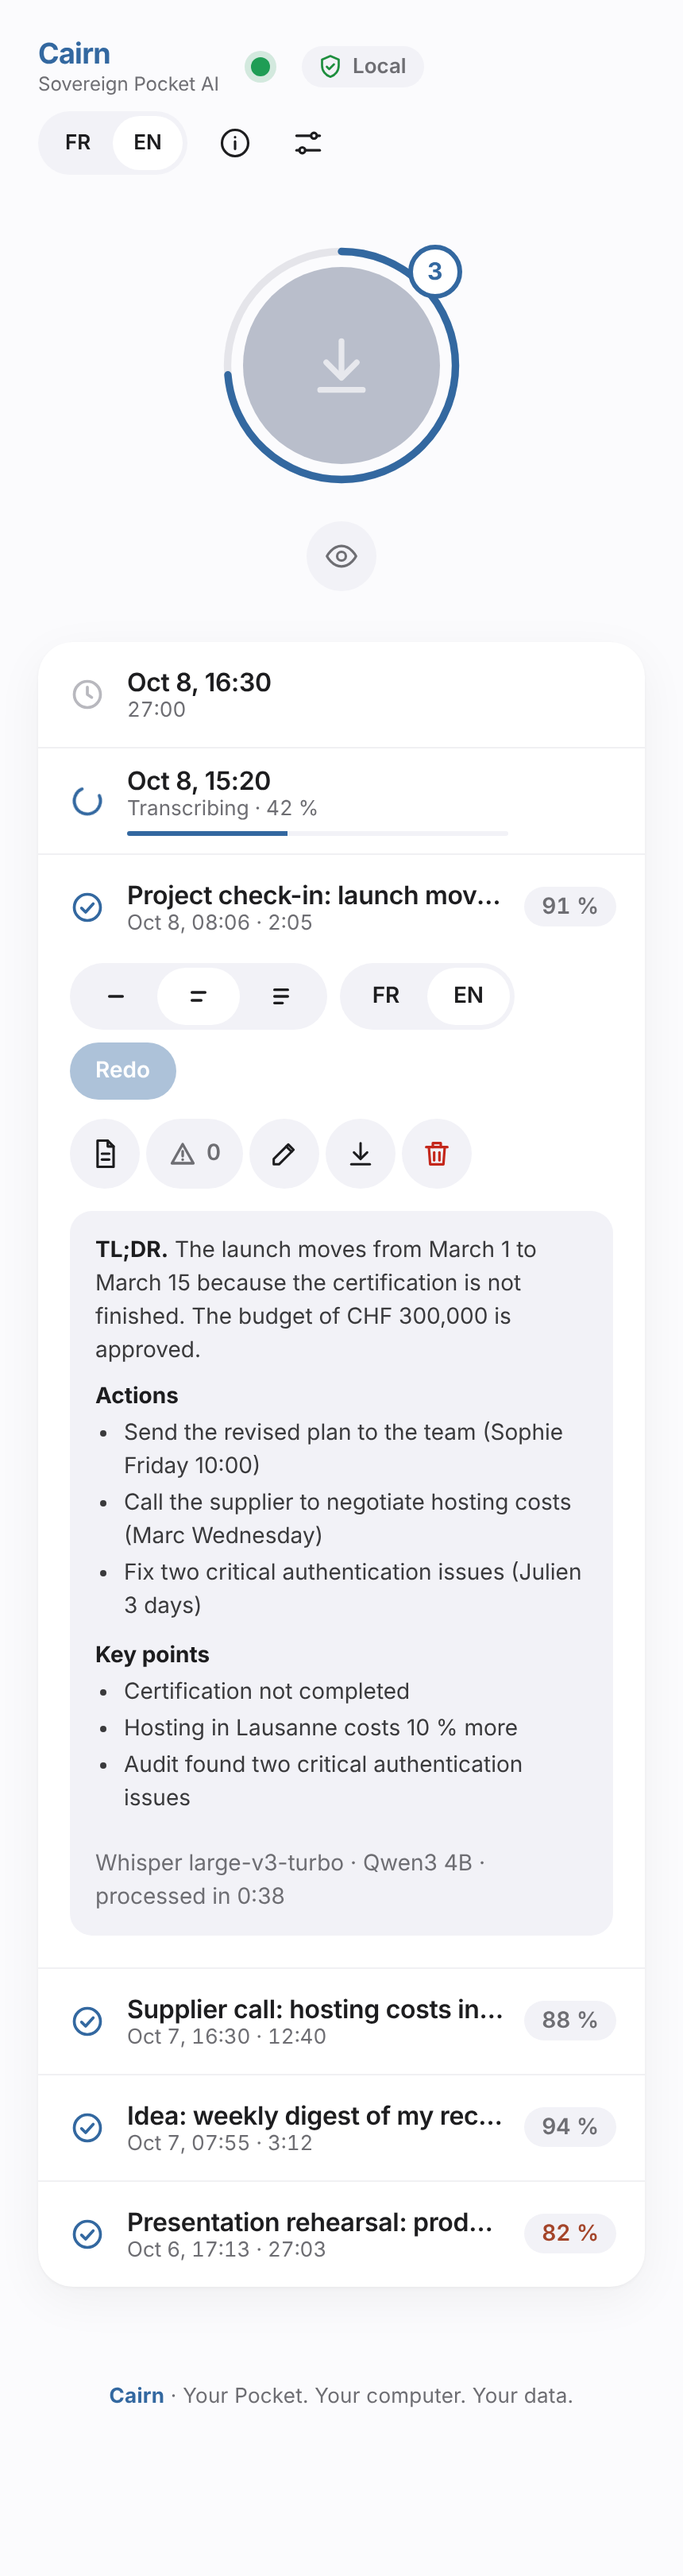
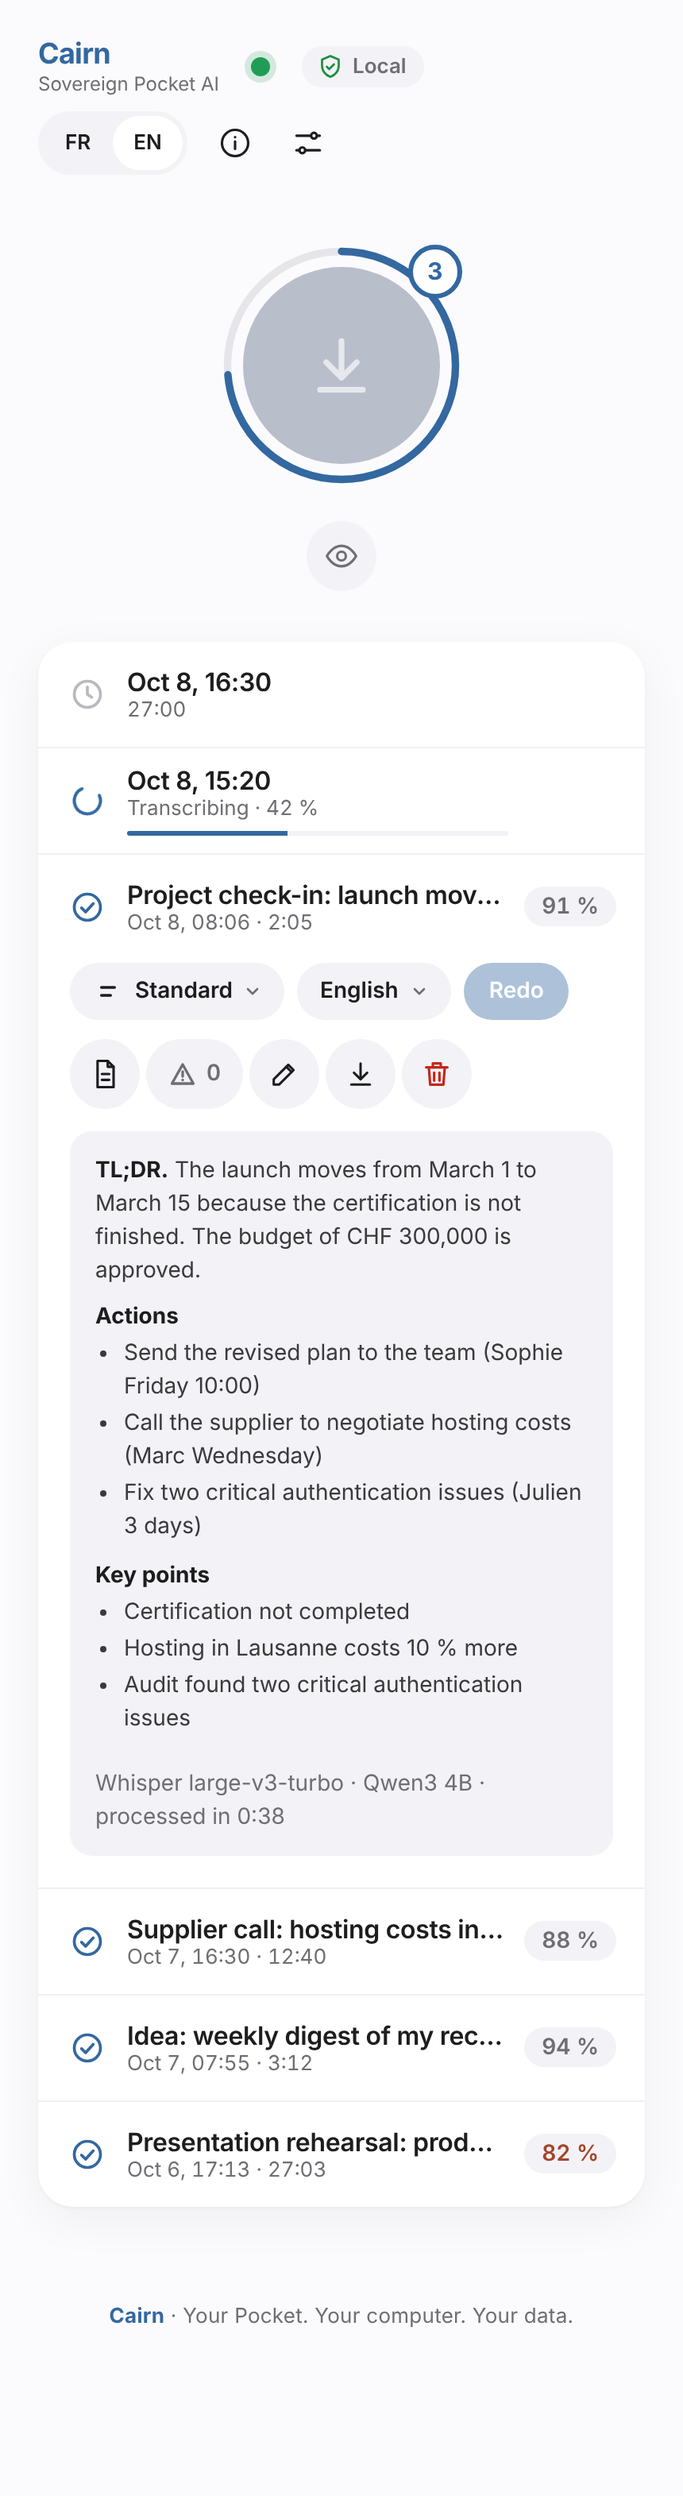
Level and language as drop-down lists
Claude-Session: https://claude.ai/code/session_011cjUvj5utwUPtNVyi6uca5

diff --git a/cairn/web/app.js b/cairn/web/app.js
@@ -14,7 +14,7 @@
       tagline: "Votre Pocket. Votre ordinateur. Vos données.", mUse: "Utiliser", mRemove: "Supprimer ce modèle", mRemoveConfirm: "Supprimer {name} de cet ordinateur ? Vous pourrez le télécharger à nouveau.", mInUse: "Utilisé", mInstall: "Installer", mTier: { light: "Léger", standard: "Standard", high: "Élevé" },
       mRam: "{n} Go de mémoire conseillés", mConfirm: "Télécharger {name} ({size}) ? Une connexion internet est utilisée pour ce seul téléchargement.",
       mDownloading: "Téléchargement {pct} %", mFailed: "Échec du téléchargement : ", mDone: "Modèle installé", mDown: "Moteur local arrêté", mBusy: "Un traitement est en cours",
-      settings: "Réglages", langHint: "Langue de la note",
+      settings: "Réglages", langHint: "Langue de la note", levelHint: "Niveau de détail",
       short: "Court", mid: "Normal", full: "Complet",
       shortHint: "Court : TL;DR et actions", midHint: "Normal : + contexte et points clés", fullHint: "Complet : + détail par sujet",
       emptyPocket: "Vider le Pocket", emptyHint: "Vider le Pocket (copies vérifiées)",
@@ -52,7 +52,7 @@
       tagline: "Your Pocket. Your computer. Your data.", mUse: "Use", mRemove: "Remove this model", mRemoveConfirm: "Remove {name} from this computer? You can download it again later.", mInUse: "In use", mInstall: "Install", mTier: { light: "Light", standard: "Standard", high: "High" },
       mRam: "{n} GB of memory advised", mConfirm: "Download {name} ({size})? An internet connection is used for this download only.",
       mDownloading: "Downloading {pct}%", mFailed: "Download failed: ", mDone: "Model installed", mDown: "Local engine stopped", mBusy: "A job is running",
-      settings: "Settings", langHint: "Note language",
+      settings: "Settings", langHint: "Note language", levelHint: "Level of detail",
       short: "Short", mid: "Standard", full: "Detailed",
       shortHint: "Short: TL;DR and actions", midHint: "Standard: + context, key points", fullHint: "Detailed: + detail per topic",
       emptyPocket: "Empty the Pocket", emptyHint: "Empty the Pocket (copies verified)",
@@ -83,6 +83,7 @@
   var I = {
     info: '<svg width="22" height="22" viewBox="0 0 24 24" fill="none" stroke="#1D1D1F" stroke-width="1.7" stroke-linecap="round" stroke-linejoin="round" aria-hidden="true"><circle cx="12" cy="12" r="9"></circle><path d="M12 11v5"></path><path d="M12 8h.01"></path></svg>',
     gear: '<svg width="22" height="22" viewBox="0 0 24 24" fill="none" stroke="#1D1D1F" stroke-width="1.7" stroke-linecap="round" stroke-linejoin="round" aria-hidden="true"><path d="M4 7h10"></path><path d="M18 7h2"></path><circle cx="16" cy="7" r="2"></circle><path d="M4 17h2"></path><path d="M10 17h10"></path><circle cx="8" cy="17" r="2"></circle></svg>',
+    chev: '<svg width="12" height="12" viewBox="0 0 24 24" fill="none" stroke="#6E6E73" stroke-width="2.6" stroke-linecap="round" stroke-linejoin="round" aria-hidden="true"><path d="M6 9l6 6 6-6"></path></svg>',
     doc: '<svg width="22" height="22" viewBox="0 0 24 24" fill="none" stroke="#6E6E73" stroke-width="1.7" stroke-linecap="round" stroke-linejoin="round" aria-hidden="true"><path d="M7 3h7l4 4v14H7z"></path><path d="M14 3v4h4"></path><path d="M10 12h5"></path><path d="M10 16h5"></path></svg>',
     folder: '<svg width="22" height="22" viewBox="0 0 24 24" fill="none" stroke="#6E6E73" stroke-width="1.7" stroke-linecap="round" stroke-linejoin="round" aria-hidden="true"><path d="M3 7a2 2 0 0 1 2-2h4l2 2h8a2 2 0 0 1 2 2v8a2 2 0 0 1-2 2H5a2 2 0 0 1-2-2z"></path></svg>',
     mic: '<svg width="22" height="22" viewBox="0 0 24 24" fill="none" stroke="#6E6E73" stroke-width="1.7" stroke-linecap="round" stroke-linejoin="round" aria-hidden="true"><rect x="9" y="3" width="6" height="11" rx="3"></rect><path d="M5 11a7 7 0 0 0 14 0"></path><path d="M12 18v3"></path></svg>',
@@ -116,7 +117,7 @@
 
   var S = {
     ui: null, hidden: true, settingsOpen: false, aboutOpen: false, open: null, edit: null, draft: "", exp: null,
-    delConfirm: false, emptyConfirm: false, verify: null, rr: "mid", server: null, full: {}, about: null, upd: null,
+    delConfirm: false, emptyConfirm: false, verify: null, rr: "mid", rl: "en", menu: null, server: null, full: {}, about: null, upd: null,
     folderEdit: false, folderDraft: "", wasRunning: false
   };
   var lastView = "";
@@ -132,7 +133,22 @@
   function findNote(id) { return S.server && S.server.notes ? S.server.notes.filter(function (x) { return x.id === id; })[0] : null; }
   function noteLevel(id) { var n = findNote(id); return (n && n.level) || "mid"; }
   function noteLang(id) { var n = findNote(id); return (n && n.lang) || ui(); }
-  function optionBar(t) { return seg3("rr", S.rr, "s36", t) + segLang("rl", S.rl, "s36", t, t.langHint); }
+  function lvlIcon(k) { return '<svg width="20" height="20" viewBox="0 0 24 24" fill="none" stroke="#1D1D1F" stroke-width="2" stroke-linecap="round" aria-hidden="true">' + I.lvl[k] + "</svg>"; }
+  var LANG_NAME = { fr: "Français", en: "English" };
+  function menuBtn(key, icon, label, hint) {
+    return '<button type="button" class="mbtn menu' + (S.menu === key ? " open" : "") + '" data-a="menu" data-v="' + key + '"' + tip(hint) + ">" + icon + "<span>" + esc(label) + "</span>" + I.chev + "</button>";
+  }
+  function optionBar(t) {
+    return menuBtn("lvl", lvlIcon(S.rr), t[S.rr], t.levelHint) + menuBtn("lang", "", LANG_NAME[S.rl] || S.rl, t.langHint);
+  }
+  function optionList(t) {
+    if (!S.menu) { return ""; }
+    var isLevel = S.menu === "lvl", items = isLevel ? ["short", "mid", "full"] : ["fr", "en"], cur = isLevel ? S.rr : S.rl;
+    return '<div class="opts">' + items.map(function (k) {
+      return '<button type="button" class="opt' + (k === cur ? " on" : "") + '" data-a="' + (isLevel ? "rr" : "rl") + '" data-v="' + k + '"' + (isLevel ? tip(t[k + "Hint"]) : "") + ">" +
+        (isLevel ? lvlIcon(k) : "") + "<span>" + esc(isLevel ? t[k] : LANG_NAME[k]) + "</span></button>";
+    }).join("") + "</div>";
+  }
 
   function api(method, path, body) {
     var opt = { method: method, headers: {} };
@@ -173,11 +189,6 @@
   function bg(on) { return on ? " on" : ""; }
   function tip(text) { return text ? ' data-tip="' + esc(text) + '" aria-label="' + esc(text) + '"' : ""; }
 
-  function seg3(prefix, current, size, t) {
-    return '<div class="seg ' + size + '">' + ["short", "mid", "full"].map(function (k) {
-      return '<button type="button" class="' + (current === k ? "on" : "") + '" data-a="' + prefix + '" data-v="' + k + '"' + tip(t[k + "Hint"]) + '><svg width="20" height="20" viewBox="0 0 24 24" fill="none" stroke="#1D1D1F" stroke-width="2" stroke-linecap="round" aria-hidden="true">' + I.lvl[k] + "</svg></button>";
-    }).join("") + "</div>";
-  }
   function segLang(prefix, current, size, t, hint) {
     return '<div class="seg ' + size + '">' + ["fr", "en"].map(function (k) {
       return '<button type="button" class="' + (current === k ? "on" : "") + '" data-a="' + prefix + '" data-v="' + k + '"' + tip(hint) + ">" + k.toUpperCase() + "</button>";
@@ -302,12 +313,12 @@
     var passInk = n.quality != null && n.quality < 85 ? "var(--warn)" : "var(--mute)";
     h += '<div class="bar"><div class="row gap8" style="flex-wrap:wrap">' + optionBar(t) +
       '<button type="button" class="mbtn blue" data-a="rerun"' + (S.server && S.server.job && S.server.job.running ? " disabled" : "") + tip(t.redoHint) + ">" + esc(t.redo) + "</button></div>";
-    h += '<div class="row" style="gap:4px">';
+    h += '<div class="row" style="gap:4px;order:2">';
     h += '<button type="button" class="ib" data-a="viewText" data-id="' + esc(n.id) + '"' + tip(t.viewText) + ">" + I.doc.replace("#6E6E73", "#1D1D1F") + "</button>";
     h += '<button type="button" class="warn" data-a="copyDoubtful" style="color:' + passInk + '"' + tip(n.passages + t.passages + " · " + t.copilotHint) + ">" + (passInk === "var(--orange)" ? I.warnB.replace('width="16" height="16"', 'width="18" height="18"') : I.warnB.replace("#C86D51", "#6E6E73").replace('width="16" height="16"', 'width="18" height="18"')) + (n.passages || 0) + "</button>";
     h += '<button type="button" class="ib" data-a="startRename"' + tip(t.rename) + ">" + I.pencil + "</button>";
     h += '<button type="button" class="ib" data-a="toggleExport"' + tip(t.exportHint) + ">" + I.down + "</button>";
-    h += '<button type="button" class="ib" data-a="askDelete"' + tip(t.deleteHint) + ">" + I.trash + "</button></div></div>";
+    h += '<button type="button" class="ib" data-a="askDelete"' + tip(t.deleteHint) + ">" + I.trash + "</button></div>" + optionList(t) + "</div>";
     if (S.exp === n.id) {
       h += '<div class="exp"><button type="button" class="main" data-a="expCopy"' + tip(t.copyRichHint) + ">" + I.copy + '</button><button type="button" data-a="expMd"' + tip(t.expMdHint) + '>MD</button><button type="button" data-a="expHtml"' + tip(t.expHtmlHint) + ">HTML</button></div>";
     }
@@ -347,7 +358,7 @@
         ? '<button type="button" class="mbtn" data-a="restoreOne" data-id="' + esc(n.id) + '">' + esc(t.putBack) + "</button>"
         : '<button type="button" class="mbtn" data-a="skipOne" data-id="' + esc(n.id) + '">' + esc(t.skipIt) + "</button>";
     }
-    return h + "</div></div>";
+    return h + "</div>" + optionList(t) + "</div>";
   }
 
   function viewList(t, st) {
@@ -530,14 +541,15 @@
     import: function () {
       api("POST", "/api/import").then(refresh).catch(function (e) { flash(T().error + e.message); });
     },
-    row: function (v, id) { S.open = S.open === id ? null : id; S.delConfirm = false; S.edit = null; S.exp = null; S.rr = noteLevel(id); S.rl = noteLang(id); if (S.open) { loadFull(id); } },
+    row: function (v, id) { S.open = S.open === id ? null : id; S.delConfirm = false; S.edit = null; S.exp = null; S.menu = null; S.rr = noteLevel(id); S.rl = noteLang(id); if (S.open) { loadFull(id); } },
+    menu: function (v) { S.menu = S.menu === v ? null : v; },
     rr: function (v) {
-      S.rr = v;
+      S.rr = v; S.menu = null;
       var id = S.open, n = findNote(id);
       if (n && n.status !== "done") { api("POST", "/api/note/" + encodeURIComponent(id) + "/options", { level: v }).then(refresh); }
     },
     rl: function (v) {
-      S.rl = v;
+      S.rl = v; S.menu = null;
       var id = S.open, n = findNote(id);
       if (n && n.status !== "done") { api("POST", "/api/note/" + encodeURIComponent(id) + "/options", { lang: v }).then(refresh); }
     },

diff --git a/cairn/web/style.css b/cairn/web/style.css
@@ -84,6 +84,11 @@ svg{flex-shrink:0}
 .mbody{overflow:auto;padding:4px 22px 22px;font-size:15px;line-height:1.6;color:var(--ink2)}
 .mbody p{margin:0 0 12px}.mbody .ts{color:var(--mute);font-variant-numeric:tabular-nums;margin-right:8px;font-size:13px}
 .mbody p.dbt{background:var(--orange-bg);border-radius:8px;padding:4px 8px;margin-left:-8px;margin-right:-8px}
+.mbtn.menu{display:inline-flex;align-items:center;gap:7px;padding:0 14px}.mbtn.menu.open{background:#E5E5EA}.mbtn.menu svg{flex:none}
+.detail .bar .opts{flex:0 0 100%;order:1}
+.opts{display:flex;flex-direction:column;gap:3px;background:var(--soft);border-radius:14px;padding:5px}
+.opt{display:flex;align-items:center;gap:10px;min-height:42px;padding:0 12px;border:0;border-radius:10px;background:transparent;font:inherit;font-weight:600;font-size:14px;color:var(--ink);text-align:left;cursor:pointer}
+.opt.on{background:var(--card);box-shadow:0 1px 3px rgba(0,0,0,.08)}
 .mbtn.blue{background:var(--blue);color:#fff}.mbtn:disabled{opacity:.4;cursor:default}
 .mtag{font-size:13px;font-weight:600;color:#1B7F3B}
 .pbar{display:block;height:3px;border-radius:2px;background:var(--soft);margin-top:6px;overflow:hidden}.pbar>span{display:block;height:100%;background:var(--blue);transition:width .6s ease}
